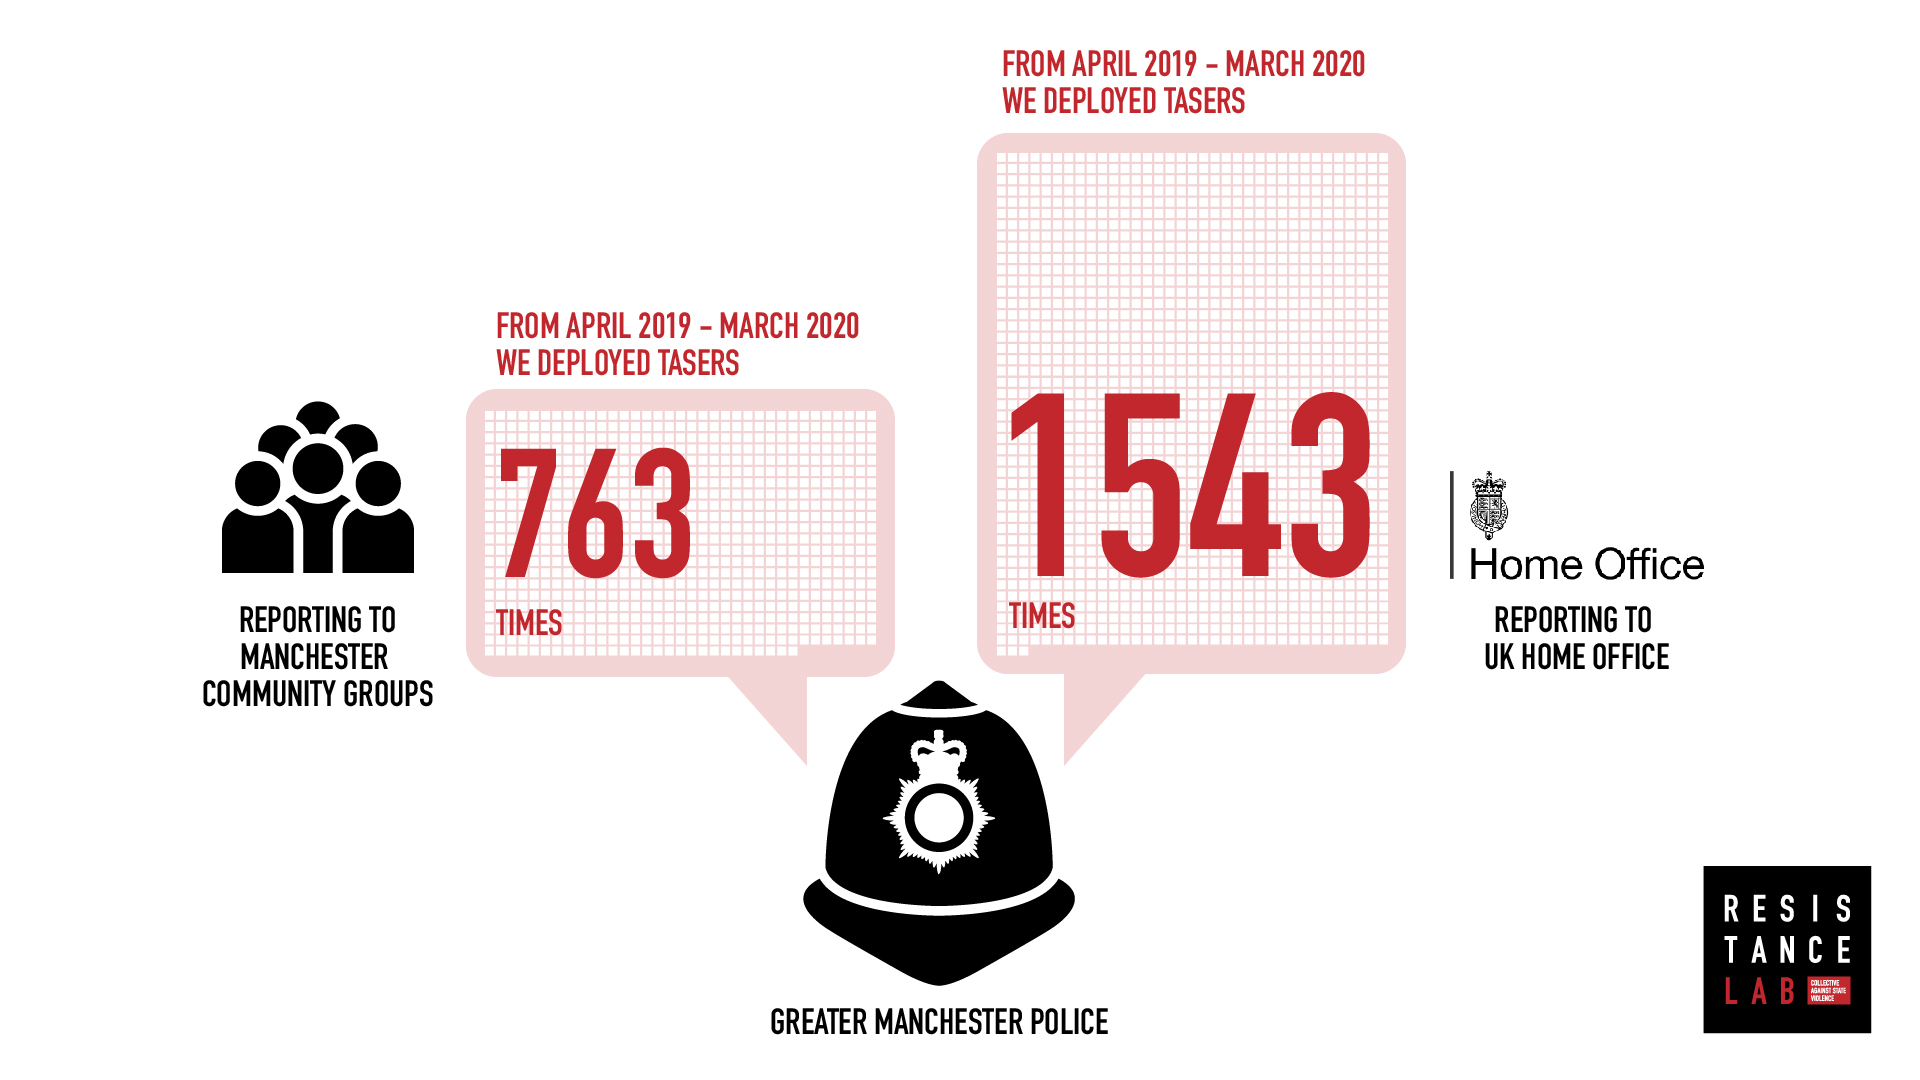
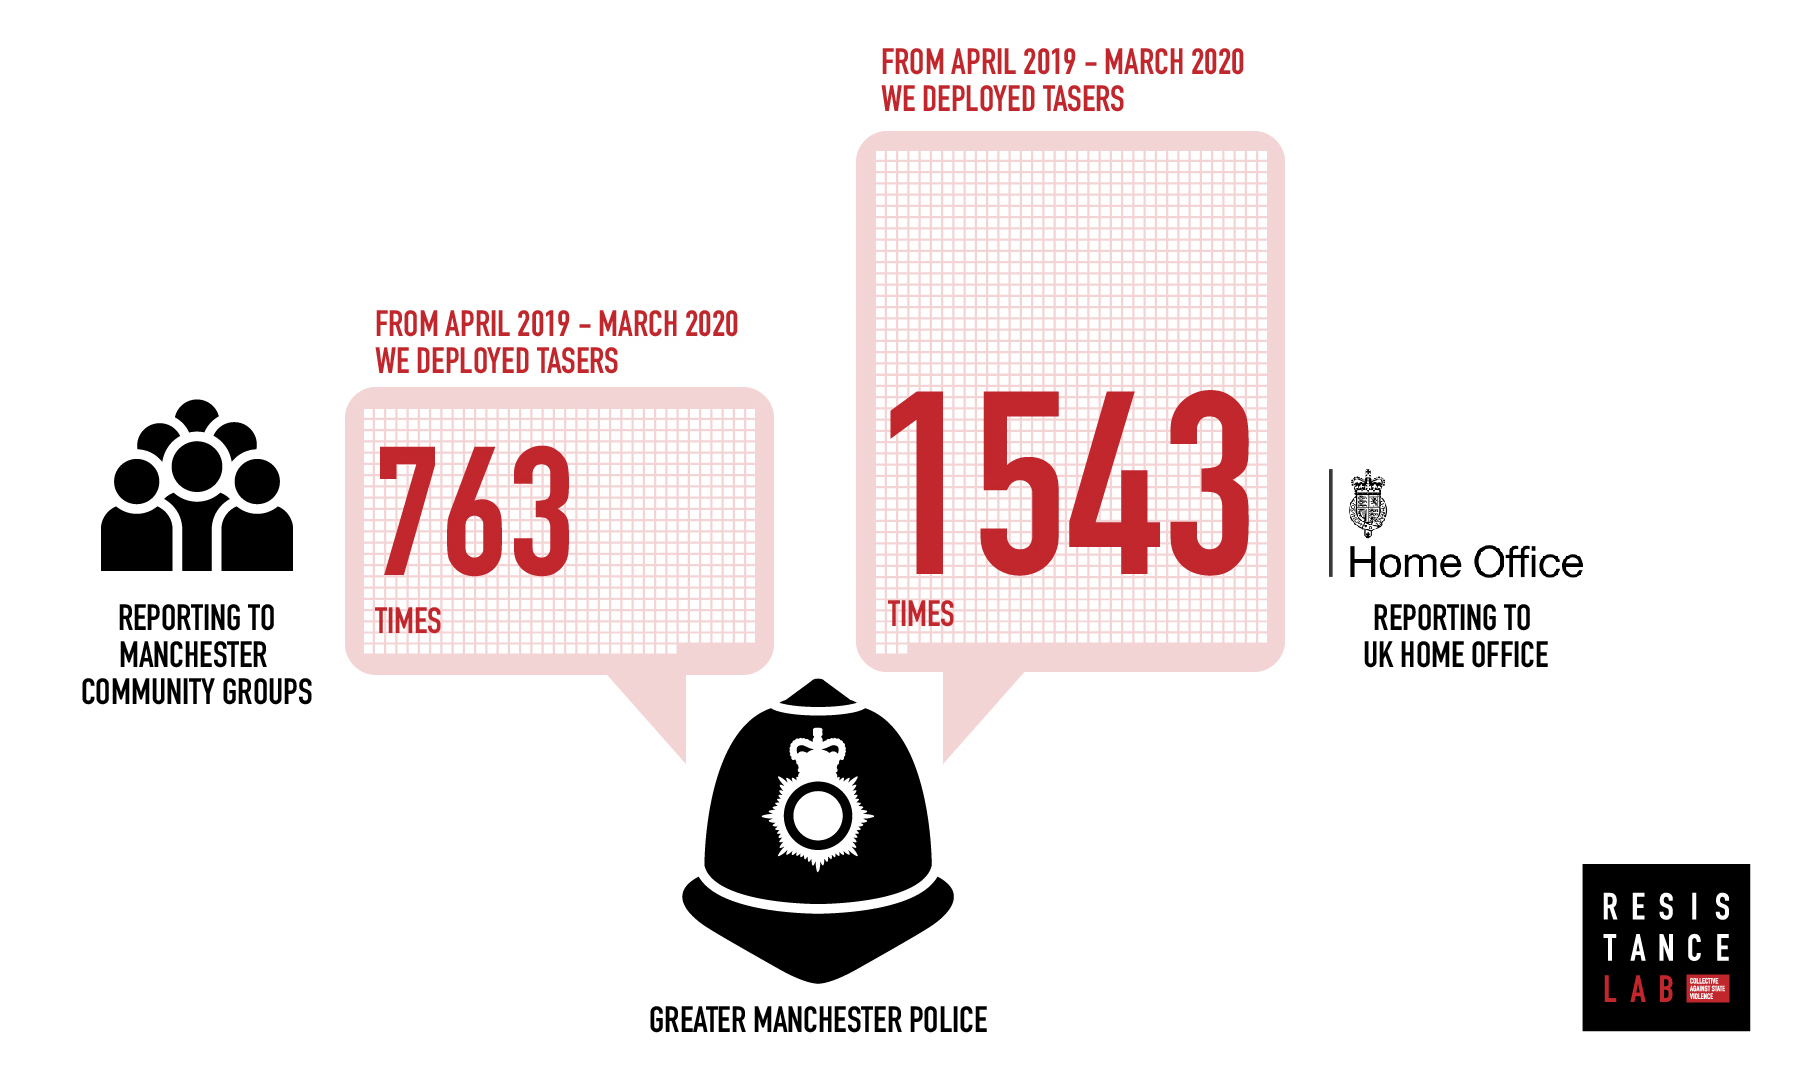
Aesthetic tweaks

Changed region(s): [[0.0311, 0.0306, 0.9027, 0.9796], [0.8716, 0.7959, 0.965, 0.949]]

diff --git a/_site/contact.html b/_site/contact.html
@@ -401,7 +401,7 @@
           </ul>
         </div>
       </div>
-      <p class="footer__copyright">&copy; Resistance Lab 2020. All rights reserved.</p>
+      <p class="footer__copyright">&copy; Resistance Lab 2020 – 2021. All rights reserved.</p>
     </div>
   </footer>
 

diff --git a/_site/index.html b/_site/index.html
@@ -475,7 +475,7 @@
           </ul>
         </div>
       </div>
-      <p class="footer__copyright">&copy; Resistance Lab 2020. All rights reserved.</p>
+      <p class="footer__copyright">&copy; Resistance Lab 2020 – 2021. All rights reserved.</p>
     </div>
   </footer>
 

diff --git a/_our-work/gmp-taser-update/index.md b/_our-work/gmp-taser-update/index.md
@@ -1,6 +1,6 @@
 ---
-title: "Despite claims to the contrary, Taser usage by Greater Manchester Police has risen to its highest ever level"
-title_fancy: "Despite claims to the contrary, Taser usage by Greater Manchester Police has risen to its highest ever level"
+title: "Taser usage by Greater Manchester Police has risen to its highest ever level"
+title_fancy: "Taser usage by <span>Greater Manchester Police</span> <br>has risen to its <span>highest ever level</span>"
 layout: article
 published: 2021-03-08
 teaser: |
@@ -31,11 +31,11 @@ Please cite it as: Resistance Lab (2021). Despite their claims to the contrary, 
 
 ## Introduction
 
-Greater Manchester Police (GMP) are now using Tasers more than ever before according to new Home Office data, which shows the highest use of the weapon in England and Wales on record.
+Despite their claims to the contrary, Greater Manchester Police (GMP) are now using Tasers more than ever before according to new Home Office data. This data shows the highest use of the weapon in England and Wales on record.
 
 [Infographics published](https://web.archive.org/web/20201025135947/https://www.gmp.police.uk/police-forces/greater-manchester-police/areas/greater-manchester-force-content/sd/stats-and-data/use-of-force/) by GMP on their website and circulated to community groups indicated that their Taser use was declining. However, this is directly contradicted by data reported by GMP to the Home Office which shows Tasers being used at more than double the rate claimed in these infographics for the same April 2019 - March 2020 period. The Home Office data show that GMP’s Taser usage has actually increased a further 7%, and is now at its highest ever level. Racial disproportionalities have widened, with Black people now more than 5 times more likely to be the subject of a use of force incident involving Taser than white people. Use against children has also increased from 118 to 132 incidents.
 
-![Infographic showing reporting taser deployments to community groups: 763 times vs to UK Home Office: 1543 times](/assets/images/our-work/taser-report-update-19-20/Taserdeployment-01.jpg)
+![Infographic showing reporting taser deployments to community groups: 763 times vs to UK Home Office: 1543 times](/assets/images/our-work/taser-report-update-19-20/Taserdeployment-01.jpg){:.image}
 
 In the last year, GMP have been placed into ‘special measures’ over systemic data mishandling including the loss of 80,000 crime reports culminating in their most senior officer resigning over the matter. The force was also ordered by the <abbr title="Independent Office for Police Conduct">IOPC</abbr> to issue an apology to Michael Gilchrist, a fifty-three-year-old man diagnosed with autism and a learning difficulty, who was repeatedly subjected to Taser and CS gas following a mental health episode in 2014.
 
@@ -45,7 +45,7 @@ Taken together, these events raise serious concerns about GMP’s transparency a
 
 ## Background
 
-In August 2020 Resistance Lab published [A Growing Threat to Life: Taser Usage by Greater Manchester Police](https://resistancelab.network/our-work/taser-report/index.html), a report documenting the intrinsic and potentially lethal threat posed by Taser in the hands of police in England and Wales. We wrote the report in response to the stories of the many victims of police Taser usage here in Greater Manchester and around the country. Since their introduction in 2003, 18 people have died following Taser usage by police and many more have sustained serious injury and trauma. In many cases, these individuals and their families have fought protracted battles through complaints processes, independent investigations and the courts, both to secure justice and alert the nation to the threat to life posed by Tasers in the hands of police. 
+In August 2020 Resistance Lab published [A Growing Threat to Life: Taser Usage by Greater Manchester Police](https://resistancelab.network/our-work/taser-report/index.html), a report documenting the intrinsic and potentially lethal threat posed by Taser in the hands of police in England and Wales. We wrote the report in response to the stories of the many victims of police Taser usage here in Greater Manchester and around the country. Since their introduction in 2003, 18 people have died following Taser usage by police and many more have sustained serious injury and trauma. In many cases, these individuals and their families have fought protracted battles through complaints processes, independent investigations and the courts, both to secure justice and alert the nation to the threat to life posed by Tasers in the hands of police.
 
 Drawing on the Home Office statistics and personal testimony from local community members, our report showed that these warnings from the victims and their families were not being heard. Tasers were being rolled out to more officers around the country and their use was becoming increasingly routinised. Between April 2017 and March 2019, Greater Manchester Police (GMP) saw a 73% increase in total Taser incidents. Moreover, GMP was disproportionately using the weapon against Black communities. In 2018/19, Black people in Greater Manchester were subject to Taser usage at nearly 4 times the rate of their white counterparts.
 
@@ -57,38 +57,18 @@ Following the report’s publication and against the backdrop of wider #BlackLiv
 
 However, Bailey’s predictions are in direct contradiction to the Home Office’s latest [use of force](https://www.gov.uk/government/statistics/police-use-of-force-statistics-england-and-wales-april-2019-to-march-2020) statistics which show further increases in Taser usage in Greater Manchester and across the nation. Between April 2019 and March 2020, the Home Office reported a total of **32,057** incidents in which a Taser was used, whether discharged or not, by police in England and Wales. This constituted a **36.7% increase** in Taser usage from 2018/19 when 23,451 incidents were reported. During that same period, GMP reported that the force’s Taser usage had increased by **7%** up from 1,442 incidents in 2018/19 to a new high of **1,543** incidents in 2019/20.
 
-<div id="observablehq-taserUseCountChartembed-604744f9"></div>
-<script type="module">
-import {Runtime, Inspector} from "https://cdn.jsdelivr.net/npm/@observablehq/runtime@4/dist/runtime.js";
-import define from "https://api.observablehq.com/d/d64d727e1d3de900.js?v=3";
-new Runtime().module(define, name => {
-  if (name === "taserUseCountChartembed") return new Inspector(document.querySelector("#observablehq-taserUseCountChartembed-604744f9"));
-});
-</script>
+{% include observable.html notebook="d64d727e1d3de900" name="taserUseCountChartembed" %}
 
 Greater Manchester’s Black communities continue to bear the brunt of police use of force with racial disproportionalities in Taser usage increasing in 2019/20. Of the 1,543 incidents, the ethnicity of the subject was perceived by the reporting officer to be White in 1,073 (69.5%); Black in 182 (11.8%); Asian in 138 (8.9%); Mixed in 45 (2.9%); Other in 65 (4.2%); and Not Reported in 40 (2.6%). When compared to 2018/19, Taser usage did fall against White people, down from 1,118 to 1,073 incidents. However, during the same period, Taser usage actually increased against Black people from 142 incidents to **182** incidents. In total, Black people in Greater Manchester were subject to Taser usage at more than 5 times the rate of their white counterparts.
 
-<div id="observablehq-taserUseEthnicityChart-7db7ae67"></div>
-<script type="module">
-import {Runtime, Inspector} from "https://cdn.jsdelivr.net/npm/@observablehq/runtime@4/dist/runtime.js";
-import define from "https://api.observablehq.com/d/d64d727e1d3de900.js?v=3";
-new Runtime().module(define, name => {
-  if (name === "taserUseEthnicityChart") return new Inspector(document.querySelector("#observablehq-taserUseEthnicityChart-7db7ae67"));
-});
-</script>
+
+{% include observable.html notebook="d64d727e1d3de900" name="taserUseEthnicityChart" %}
 
 The new data also indicates that the weapon is still being used against the most vulnerable in our communities including children and those with disabilities and mental ill health. Between April 2019 and March 2020, GMP reported **132** incidents involving the use of a Taser against children under the age of 18. This represents an increase in GMP’s use of Taser against children under the age of 18 up from 118 incidents in 2018/19. Of that total, 11 were against children under the age of 11 years though the weapon was discharged in none.
 
-<div id="observablehq-taserUseDisabilityChartembed-b19cf217"></div>
-<div id="observablehq-taserUseAgeChartembed-b19cf217"></div>
-<script type="module">
-import {Runtime, Inspector} from "https://cdn.jsdelivr.net/npm/@observablehq/runtime@4/dist/runtime.js";
-import define from "https://api.observablehq.com/d/d64d727e1d3de900.js?v=3";
-new Runtime().module(define, name => {
-  if (name === "taserUseDisabilityChartembed") return new Inspector(document.querySelector("#observablehq-taserUseDisabilityChartembed-b19cf217"));
-  if (name === "taserUseAgeChartembed") return new Inspector(document.querySelector("#observablehq-taserUseAgeChartembed-b19cf217"));
-});
-</script>
+{% include observable.html notebook="d64d727e1d3de900" name="taserUseDisabilityChartembed" %}
+
+{% include observable.html notebook="d64d727e1d3de900" name="taserUseAgeChartembed" %}
 
 In short, the new Home Office data establishes that between April 2019 and March 2020 GMP’s use of Taser continued to grow and that concerns about racial disproportionalities in the weapon’s usage as well as it’s impact on children and other vulnerable communities have deepened. Despite these known risks, GMP are moving forward with a decision to [double the number of Taser-trained officers](https://www.telegraph.co.uk/news/2021/02/02/police-chief-pledges-arm-frontline-officers-tasers/) in 2020/21 drawing on new funds from the Home Office.
 
